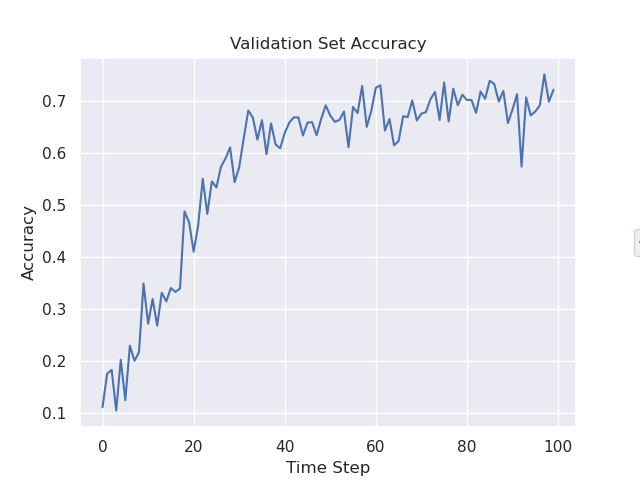
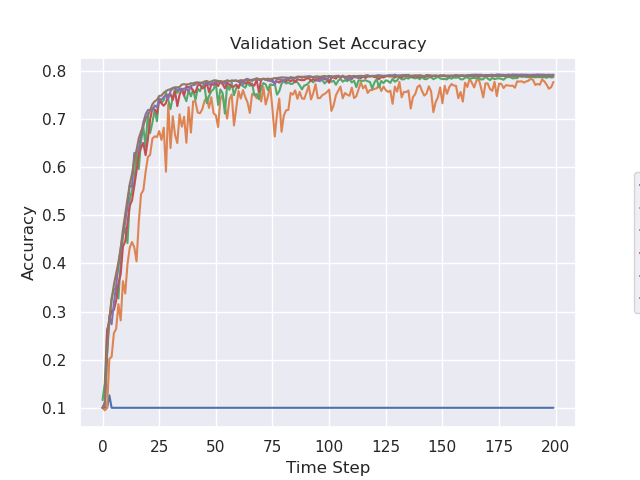
messing aound qwith delta_z but haven't got anywhere yet

diff --git a/experiments/cluster/cifar/cifar_federated.py b/experiments/cluster/cifar/cifar_federated.py
@@ -120,21 +120,27 @@ if __name__ == '__main__':
     # torch.autograd.detect_anomaly(True)
     # deltas = [0, 10, 16, 20, 24, 28, 30, 32]
     
-    rate_refs = [0.1, 0.2, 0.3, 0.4, 0.5, 0.6, 1]
+    # rate_refs = [0.1, 0.2, 0.3, 0.4, 0.5, 0.6, 1]
+    rate_ref=0.1
+    Kzs = [10, 5, 3, 1]
+    # Kzs.reverse()
     lr = 0.01
-    t_max = 200
+    t_max = 100
     rho = 0.01
     
-    acc_per_ref = np.zeros((len(rate_refs), t_max))
-    rate_per_ref = np.zeros((len(rate_refs), t_max))
+    acc_per_item = np.zeros((len(Kzs), t_max))
+    rate_per_item = np.zeros((len(Kzs), t_max))
     loads = []
     test_accs = []
     
     gamma = 0
     global_weight = rho/(rho*num_clients - 2*gamma)
-    print(f'Testing with delta_z, still using K=5')
     total_samples = sum([len(loader.dataset) for loader in trainloaders])
-    for i, ref in enumerate(rate_refs):
+
+    item_list = Kzs
+    item_key = 'K_z'
+
+    for i, item in enumerate(item_list):
         
         agents = []
         for j, loader in enumerate(trainloaders):
@@ -170,14 +176,14 @@ if __name__ == '__main__':
         torch.manual_seed(42)
         global_model = Cifar10CNN()
         server = EventADMM(clients=agents, t_max=t_max, model=global_model, device=device)
-        server.spin(loader=test_global_dl, K=5, rate_ref=ref)
+        server.spin(loader=test_global_dl, K_x=5, K_z=item, rate_ref=rate_ref)
         
         # For plotting purposes
-        acc_per_ref[i,:] = server.val_accs
-        rate_per_ref[i,:] = server.rates
-        load = sum(rate_per_ref[i,:])/t_max
+        acc_per_item[i,:] = server.val_accs
+        rate_per_item[i,:] = server.rates
+        load = sum(rate_per_item[i,:])/t_max
         acc = server.validate_global(loader=test_global_dl)
-        print(f'Load for ref {ref} = {load} | Test accuracy = {acc}')
+        print(f'Load for {item_key} {item} = {load} | Test accuracy = {acc}')
         loads.append(load)
         test_accs.append(acc.cpu().numpy())
 
@@ -187,8 +193,8 @@ if __name__ == '__main__':
 
     T = range(t_max)
     
-    for acc_per, ref in zip(acc_per_ref, rate_refs):
-        plt.plot(T, acc_per, label=f'ref={ref}')
+    for acc_per, item in zip(acc_per_item, item_list):
+        plt.plot(T, acc_per, label=f'{item_key}={item}')
     plt.legend(loc='center right', bbox_to_anchor=(1, 0.5))
     plt.xlabel('Time Step')
     plt.ylabel('Accuracy')
@@ -197,8 +203,8 @@ if __name__ == '__main__':
     plt.cla()
     plt.clf()
 
-    for rate, ref in zip(rate_per_ref, rate_refs):
-        plt.plot(T, rate, label=f'ref={ref}')
+    for rate, item in zip(rate_per_item, item_list):
+        plt.plot(T, rate, label=f'{item_key}={item}')
     plt.legend(loc='center right', bbox_to_anchor=(1, 0.5))
     plt.xlabel('Time Step')
     plt.ylabel('Rate')
@@ -207,8 +213,8 @@ if __name__ == '__main__':
     plt.cla()
     plt.clf()
 
-    for load, acc, delta in zip(loads, test_accs, rate_refs):
-        plt.plot(acc, load, label=f'ref={ref}', marker='-x')
+    for load, acc, item in zip(loads, test_accs, item_list):
+        plt.plot(acc, load, label=f'{item_key}={item}', marker='x')
     plt.legend(loc='center right', bbox_to_anchor=(1.3, 0.5))
     plt.xlabel('Test Accuracy')
     plt.ylabel('Communication Load')
@@ -218,7 +224,7 @@ if __name__ == '__main__':
     plt.clf()
     
     # Save plotting data
-    np.save(file='figure_data/FedEvent/rates_per_delta_100', arr=rate_per_ref)
-    np.save(file='figure_data/FedEvent/accs_per_delta_100', arr=acc_per_ref)
+    np.save(file='figure_data/FedEvent/rates_per_delta_100', arr=rate_per_item)
+    np.save(file='figure_data/FedEvent/accs_per_delta_100', arr=acc_per_item)
     np.save(file='figure_data/FedEvent/loads_per_delta_100', arr=loads)
-    np.save(file='figure_data/FedEvent/deltas_100', arr=rate_refs)
+    np.save(file='figure_data/FedEvent/deltas_100', arr=item_list)

diff --git a/admm/servers.py b/admm/servers.py
@@ -33,10 +33,12 @@ class EventADMM:
         self.cumm_global = 0
         self.delta_z = 0
     
-    def spin(self, K, rate_ref, loader=None) -> None:
+    def spin(self, K_x, K_z, rate_ref, loader=None) -> None:
         
         adaptive_delta=True
         delta = self.agents[0].delta
+        global_comm = 0
+        integral = 0
         
         for round in self.pbar:
             
@@ -47,7 +49,7 @@ class EventADMM:
                 d, global_indicator = agent.primal_update(round, params=self.last_communicated)
                 D.append(d)
                 delta_description += str(global_indicator)
-            delta_description += f', delta_val={delta}, min: {min(D):.2f}, max: {max(D):.2f}, med: {statistics.median(D):.2f}'
+            delta_description += f', d_x:{delta:.1f}, d_z:{self.delta_z:.1f}, min: {min(D):.2f}, max: {max(D):.2f}, med: {statistics.median(D):.2f}'
             if self.device == 'cuda': torch.cuda.synchronize()
                 
             # Residual update in the case of communication
@@ -77,6 +79,7 @@ class EventADMM:
                 global_freq = 1
             else: global_freq = 0
             delta_description += f', glob: {d_z:.2f}'
+            global_comm += global_freq
             
             # Test updated params on validation set
             acc_descrption = ''
@@ -98,6 +101,7 @@ class EventADMM:
             
             # Analyse communication frequency and log stats
             freq = (global_freq + local_freq)*0.5
+            # freq = local_freq
             self.pbar.set_description(f'global: {int(global_freq)}, Comm: {freq:.2f}' + acc_descrption + delta_description + GPU_desctiption)
 
             # For experiment purposes
@@ -105,11 +109,15 @@ class EventADMM:
             self.val_accs.append(global_acc.detach().cpu().numpy())
             
             if adaptive_delta:
-                delta = delta + K*(freq - rate_ref)
+                delta = delta + K_x*(local_freq - rate_ref)
                 if delta <= 0: delta = 0
                 # Assign delta to clients and server
                 for agent in self.agents: agent.delta = delta
-                self.delta_z = delta
+                # self.delta_z = delta
+                integral += global_comm/(round+1) - rate_ref
+                self.delta_z = K_z*(global_comm/(round+1) - rate_ref) + 0.01*integral
+                # self.delta_z = 7
+                if self.delta_z <= 0: delta = 0
 
         self.rates = np.array(self.rates)
         self.val_accs = np.array(self.val_accs)
@@ -150,6 +158,7 @@ class EventADMM:
         model_accs = [1 - wrong/total for wrong in wrong_count]
         return model_accs
     
+
 class ServerBase:
 
     def __init__(self, t_max: int, model: torch.nn.Module, device: str) -> None:
@@ -181,6 +190,7 @@ class ServerBase:
             wrong_count += torch.count_nonzero(out-target)
         global_acc = 1 - wrong_count/total
         return global_acc
+
 
 class InexactADMM(ServerBase):
     def __init__(self, clients: List[agents.FedADMM], C: float, t_max: int, 
@@ -248,7 +258,7 @@ class FedAgg(ServerBase):
             # Sample subset of agents
             sampled_agents = sublist_by_fraction(agents=self.agents, fraction=self.C)
             global_params = self.get_parameters(self.global_model)
-            self.comm += len(sampled_agents)
+            self.comm = len(sampled_agents)
 
             # Send params to clients and let them train
             m_t = 0
@@ -273,7 +283,6 @@ class FedAgg(ServerBase):
 
              # Analyse communication frequency
             freq = self.comm/(self.N)
-            self.comm = 0
             self.pbar.set_description(f'Comm: {freq:.3f}' + acc_descrption)
 
             # For experiment purposes

diff --git a/admm/agents.py b/admm/agents.py
@@ -24,7 +24,7 @@ class FedConsensus:
         self.rho=rho
         self.N=N
         self.delta = delta
-        self.broadcast = False
+        self.broadcast = True
         self.global_weight = global_weight
         self.lr = lr
         self.last_communicated_prime = self.copy_params(self.model.parameters())
@@ -49,20 +49,15 @@ class FedConsensus:
 
     def primal_update(self, round, params) -> None:
         
-        self.primal_avg = params
+        self.primal_avg = self.copy_params(params)
         if round > 0: self.dual_update()
         
-        self.local_seq.append(self.Lagrangian(use_global=False, params=params))
-        self.global_seq.append(self.Lagrangian(use_global=True, params=params))
-        # local_diff = self.local_seq[-2] - self.local_seq[-1]
-        # global_diff = self.global_seq[-2] - self.global_seq[-1]
-        
-        local_loss = self.local_seq[-1]
-        global_loss = self.global_seq[-1]
+        local_grad, local_loss = self.Lagrangian(use_global=False, params=params)
+        global_grad, global_loss = self.Lagrangian(use_global=True, params=params)
         print(f'local diff {local_loss}, global diff: {global_loss}')
         if local_loss >= global_loss: using_global: int = 1
         else: using_global: int = 0
-        
+
         # Solve argmin problem
         if using_global == 1: self.model = self.set_parameters(model=self.model, parameters=params)
         for _ in range(self.epochs):
@@ -103,8 +98,10 @@ class FedConsensus:
         add_params(self.lam, primal_copy)
 
     def Lagrangian(self, use_global: bool, params):
+       
         model = copy.deepcopy(self.model)
         if use_global: model = self.set_parameters(params, model)        
+        
         for data, target in self.full_loader:
             data, target = data.to(self.device), target.type(torch.LongTensor).to(self.device)
             prox = 0.0
@@ -114,7 +111,14 @@ class FedConsensus:
                 pred = model(data)
                 lagrangian = self.criterion(pred, target) + prox*self.rho/2
             break
-        return lagrangian.item()
+        
+        model.zero_grad()
+        lagrangian.backward()
+        norm_grad = 0
+        for param in model.parameters():
+            norm_grad += torch.norm(param.grad, p='fro').item()**2
+
+        return norm_grad, lagrangian.item()
         
     def update_residual(self):
         # Current local z-value
@@ -257,6 +261,7 @@ class EventGlobalConsensusTorch:
     def copy_params(self, params):
         copy = [torch.zeros(param.shape).to(self.device).copy_(param) for param in params]
         return copy
+
 
 class FedADMM:
 

diff --git a/experiments/cluster/cifar/main.py b/experiments/cluster/cifar/main.py
@@ -71,7 +71,6 @@ if __name__ == '__main__':
         labels[int(target.item())] += 1
     print(f'Validation dataset {i} distribution: {labels} - num_samples = {labels.sum()}')
 
-
     """
     Run FedAVG and FedProx Experiments
     """
